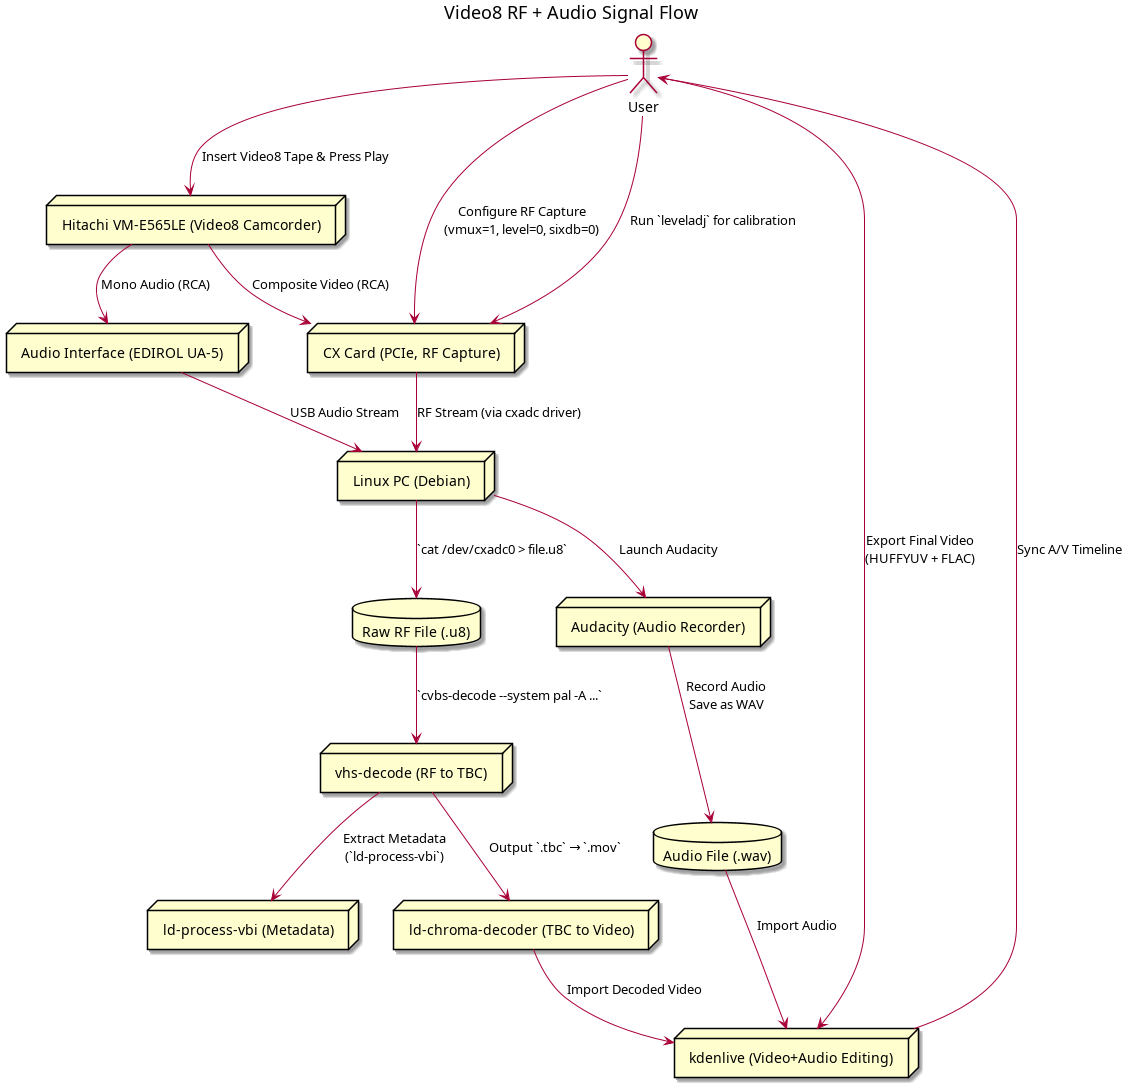
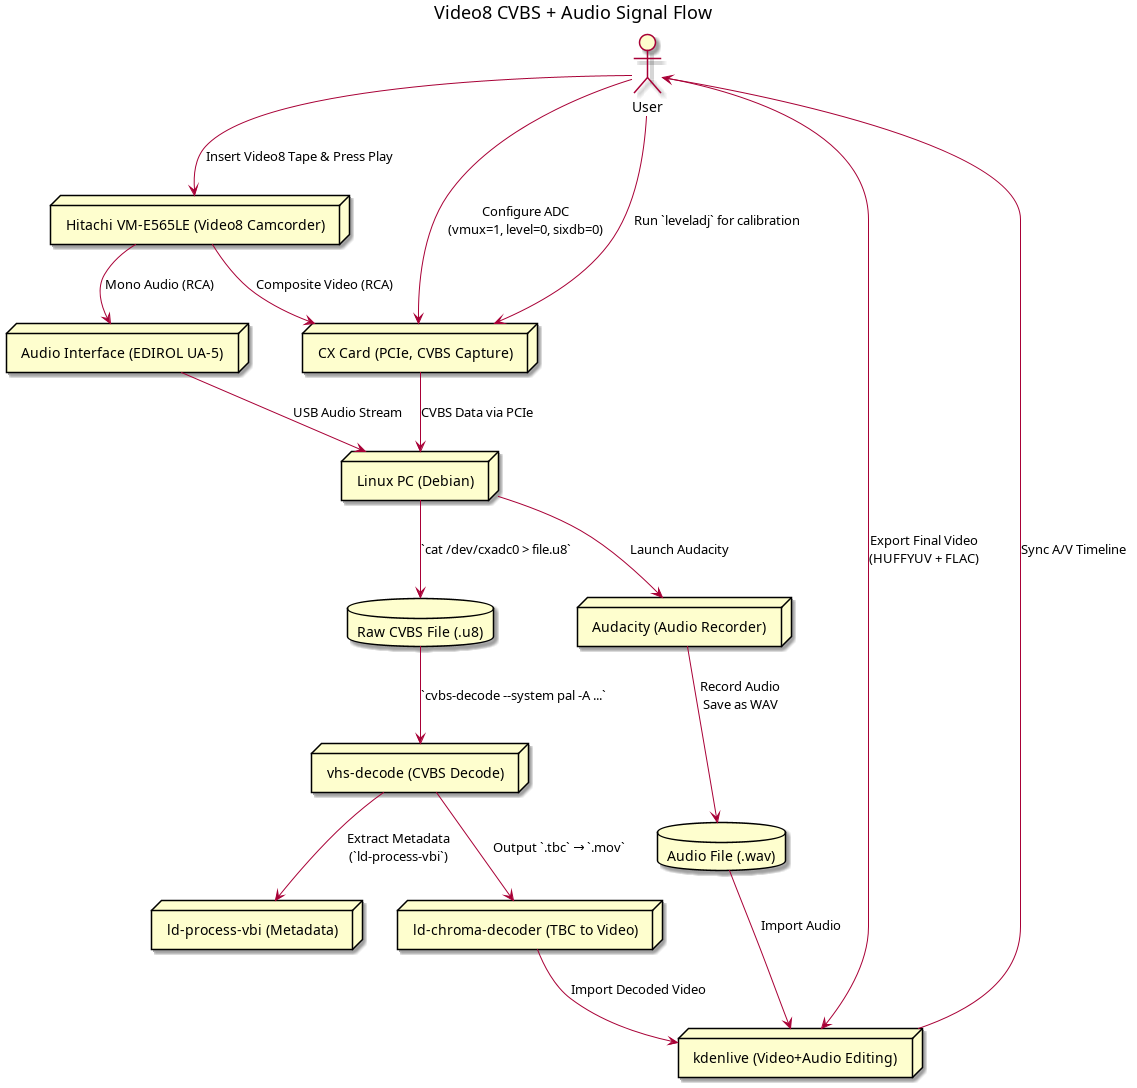
plantuml upd and cvbs info

diff --git a/blog.html b/blog.html
@@ -166,7 +166,7 @@
              </table>
 
 
-             <p>The camcorder I used for playback was a Hitachi VM-E565LE, a PAL Video8 model with an onboard LCD screen. Based on the the official documentation using the original camera or the exact model that recorded the tape is always preferred. It is better optimised for playback especially when the tapes are old or worn which is always pretty much the case nowadays. The Hitachi camera outputs standard CVBS video through RCA and mono audio via another RCA.</p>
+             <p>The camcorder I used for playback was a Hitachi VM-E565LE, a PAL Video8 model with an onboard LCD screen. Based on the the official documentation using the original camera or the exact model that recorded the tape is always preferred. It is better optimised for playback especially when the tapes are old or worn which is always pretty much the case nowadays. The Hitachi camera outputs standard CVBS video through RCA and mono audio via another RCA.  CVBS is a single channel signal that combines a few elements of a video stream into a waveform.  It includes Luma (Y) which is the brightness or black-and-white portion of the image.  Chroma (C) which is the color information. This is modulated onto a subcarrier (4.43 MHz for PAL).  It also has some horizontal and vertical sync pulses used for timing as well as blanking intervals. The chroma is modulated onto a lower frequency and then summed with the luma and sync signals.  </p>
              <img src="images/hitachi-demo-load-tape.gif" alt="Hitachi Video 8 tape load Demo GIF" width="640" height="auto">
 
              <p>Initially I thought the audio was HiFi FM and tried capturing it with the CX Card and decoding it (LOL). However, after looking at the manual and reading monophonic audio (not that "mono" provides any useful information itself) something clicked and I tried to just stick the output into the audio interface and to monitor the input signal. This way I realised my camera outputs linear mono audio not HiFi FM.  So I simply captured the audio using the audio interface.</p>
